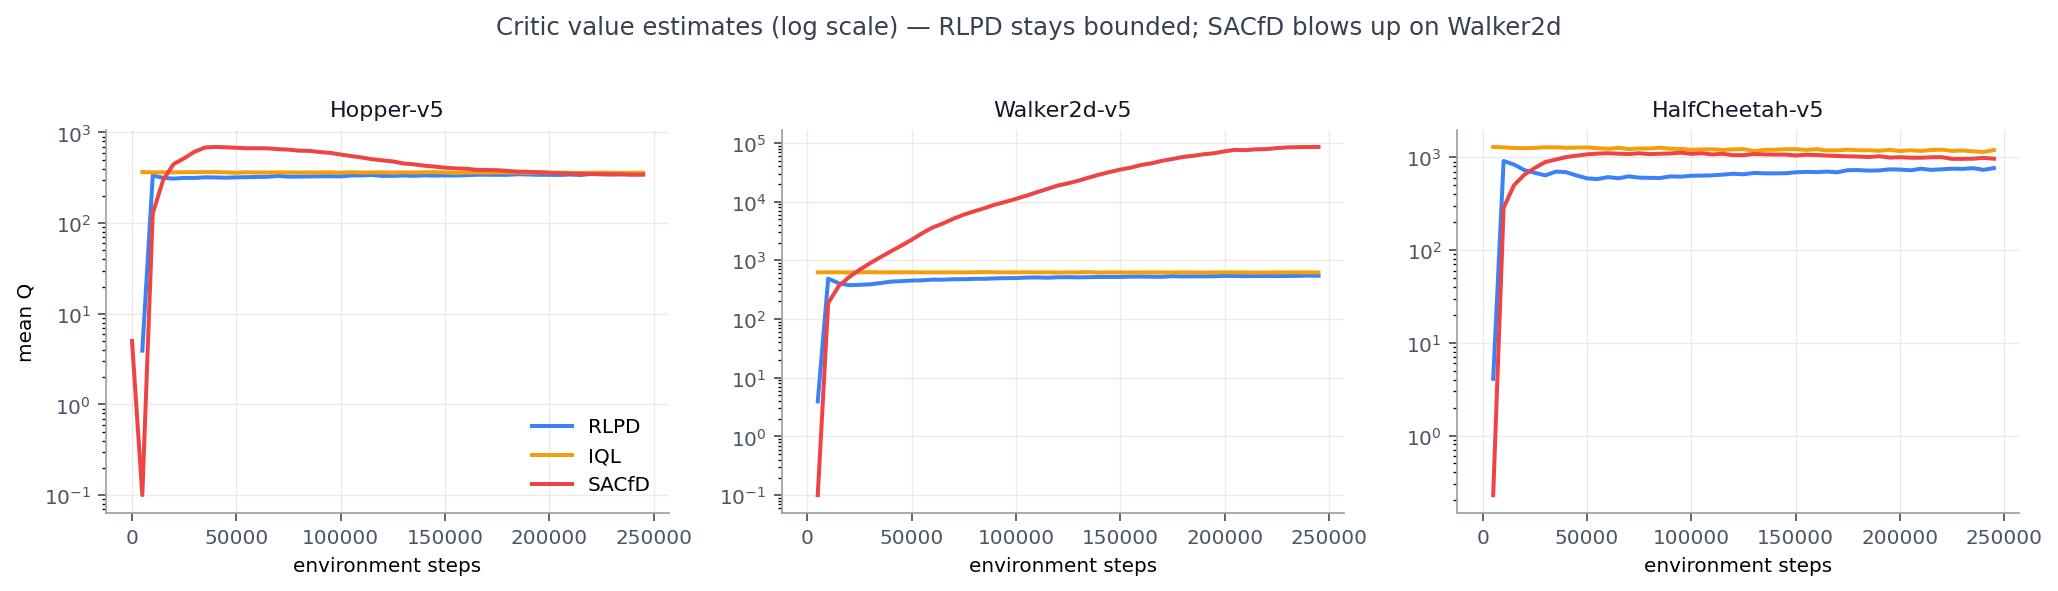
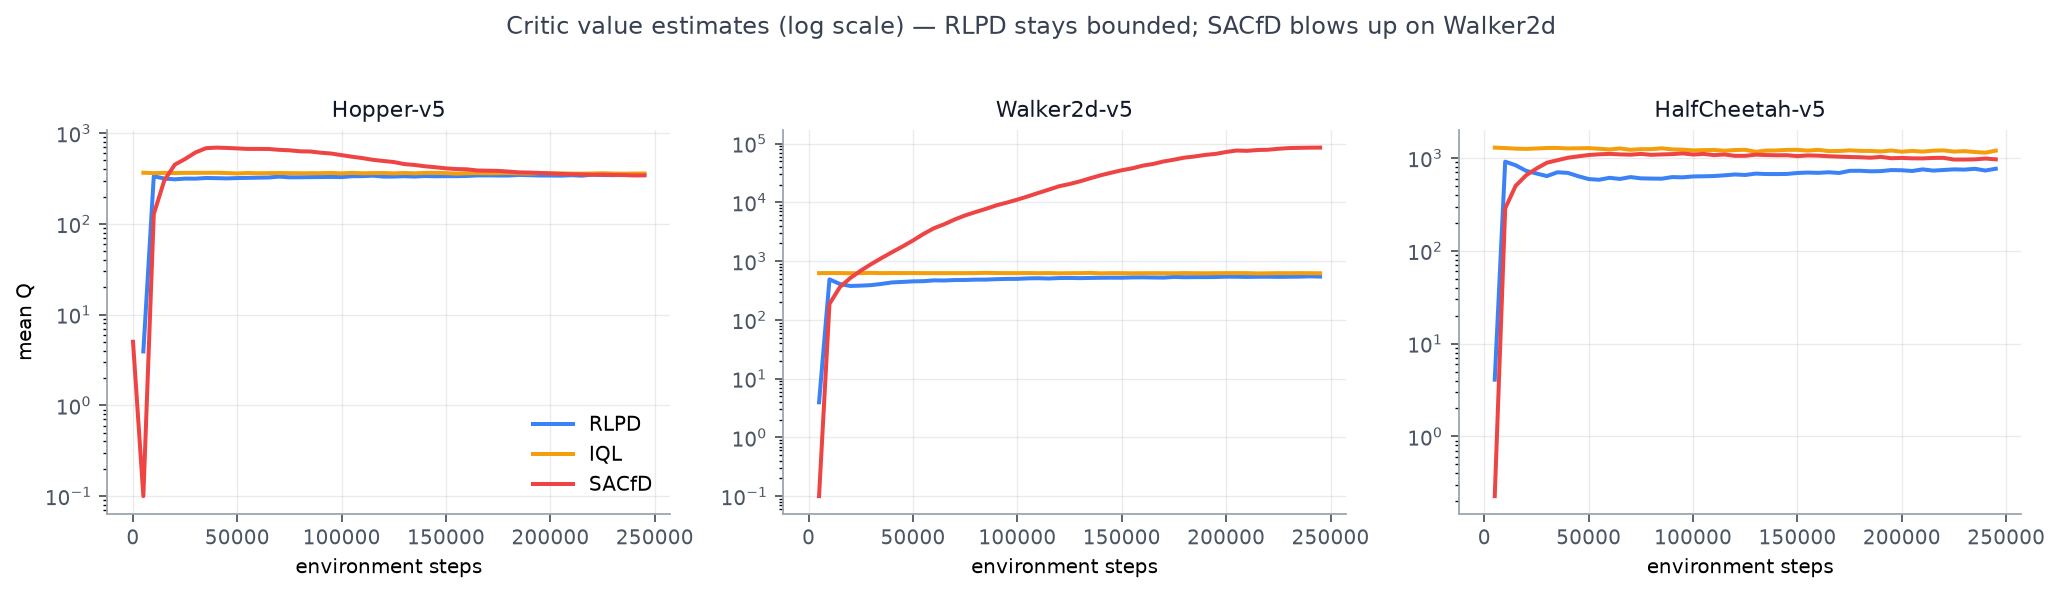
feat(plotting): add quality, Humanoid, and ablation figures

diff --git a/plotting/make_readme_figures.py b/plotting/make_readme_figures.py
@@ -1,13 +1,15 @@
-"""Build the two figures embedded in README.md from results/*.eval.csv.
+"""Build the figures embedded in README.md from results/*.eval.csv.
 
     python -m plotting.make_readme_figures
 
-Writes assets/returns.png (normalized return, RLPD vs baselines) and assets/mean_q.png
-(critic value estimates, log scale). Both are 1x3 panels over the locomotion tasks on the
-medium-quality offline datasets, shading +/- std across seeds.
+Writes to assets/:
+  returns.png    normalized return, RLPD vs baselines, locomotion medium datasets
+  mean_q.png     critic value estimates (log), same runs
+  quality.png    RLPD across simple / medium / expert offline data
+  humanoid.png   RLPD vs baselines on Humanoid (return + critic)
+  ablations.png  RLPD Humanoid ablations, one component off at a time (return + critic)
 
-These used to be produced ad hoc, so the README drifted out of sync with the data whenever
-normalization changed. Regenerate them alongside `python -m plotting.make_curves`.
+All aggregate mean +/- std across seeds. Regenerate whenever normalization or the data changes.
 """
 
 from __future__ import annotations
@@ -19,19 +21,25 @@ import matplotlib
 
 matplotlib.use("Agg")  # headless: write files, never open a window
 import matplotlib.pyplot as plt
+import pandas as pd
 
 from plotting.make_curves import RESULTS_DIR, load_runs
 
 ASSETS_DIR = Path("assets")
 ENVS = ["Hopper", "Walker2d", "HalfCheetah"]
-QUALITY = "medium"
 
-# One colour per method, held constant across both figures.
-METHODS = {
-    "RLPD": "#3b82f6",
-    "IQL": "#f59e0b",
-    "SACfD": "#ef4444",
+METHODS = {"RLPD": "#3b82f6", "IQL": "#f59e0b", "SACfD": "#ef4444"}
+QUALITIES = {"simple": "#c7d2fe", "medium": "#6366f1", "expert": "#312e81"}
+# Humanoid ablations: the reference first, then one component changed each.
+ABLATIONS = {
+    "RLPD": ("RLPD (reference)", "#111827"),
+    "ablation-ratio1": ("online-only (ratio 1)", "#3b82f6"),
+    "ablation-ensemble2": ("ensemble 2", "#10b981"),
+    "ablation-utd1": ("UTD 1", "#f59e0b"),
+    "ablation-ratio0": ("offline-only (ratio 0)", "#8b5cf6"),
+    "ablation-no-layernorm": ("no LayerNorm", "#ef4444"),
 }
+ABLATION_BUDGET = 500_000
 
 
 def _style(ax: plt.Axes) -> None:
@@ -44,84 +52,148 @@ def _style(ax: plt.Axes) -> None:
     ax.tick_params(colors="#4b5563", labelsize=9)
 
 
-def _panels(title: str) -> tuple[plt.Figure, list[plt.Axes]]:
-    fig, axes = plt.subplots(1, len(ENVS), figsize=(13, 3.6), sharex=True)
-    fig.suptitle(title, fontsize=11, color="#374151", y=1.02)
-    return fig, list(axes)
-
-
-def _series(agg, env: str, setting: str):
-    """Mean/std curve for one (env, setting) on the medium datasets, or None if absent."""
-    s = agg[(agg["env"] == env) & (agg["setting"] == setting) & (agg["quality"] == QUALITY)]
-    return s.sort_values("env_step") if not s.empty else None
-
-
-def _aggregate(df, metric: str):
+def _curve(df: pd.DataFrame, metric: str) -> pd.DataFrame:
+    """Mean/std of `metric` over seeds at each env_step for an already-filtered frame."""
     agg = (
         df.dropna(subset=[metric])
-        .groupby(["env", "setting", "quality", "env_step"])[metric]
-        .agg(["mean", "std", "count"])
+        .groupby("env_step")[metric]
+        .agg(["mean", "std"])
         .reset_index()
+        .sort_values("env_step")
     )
     agg["std"] = agg["std"].fillna(0.0)
     return agg
 
 
-def returns_figure(df, outdir: Path) -> Path:
-    agg = _aggregate(df, "return_normalized")
-    fig, axes = _panels(
-        "Normalized return on the medium offline datasets — mean ± std over 3 seeds"
-    )
-    for ax, env in zip(axes, ENVS):
-        ax.axhline(100, color="#6b7280", linestyle="--", linewidth=1)
-        ax.text(0.015, 101, "Minari v5 expert", fontsize=7.5, color="#6b7280",
-                transform=ax.get_yaxis_transform())
-        for setting, colour in METHODS.items():
-            s = _series(agg, env, setting)
-            if s is None:
-                continue
-            ax.plot(s["env_step"], s["mean"], color=colour, linewidth=1.8, label=setting)
-            ax.fill_between(s["env_step"], s["mean"] - s["std"], s["mean"] + s["std"],
-                            color=colour, alpha=0.15, linewidth=0)
-        ax.set_title(f"{env}-v5", fontsize=10, color="#111827")
-        ax.set_xlabel("environment steps", fontsize=9)
-        ax.set_ylim(bottom=0)
-        _style(ax)
-    axes[0].set_ylabel("normalized return", fontsize=9)
-    # lower right: the expert-line label owns the top-left corner
-    axes[0].legend(frameon=False, fontsize=9, loc="lower right")
+def _plot(ax: plt.Axes, df: pd.DataFrame, metric: str, colour: str, label: str) -> None:
+    c = _curve(df, metric)
+    if c.empty:
+        return
+    ax.plot(c["env_step"], c["mean"], color=colour, linewidth=1.8, label=label)
+    ax.fill_between(c["env_step"], c["mean"] - c["std"], c["mean"] + c["std"],
+                    color=colour, alpha=0.15, linewidth=0)
+
+
+def _save(fig: plt.Figure, outdir: Path, name: str) -> Path:
     outdir.mkdir(parents=True, exist_ok=True)
-    path = outdir / "returns.png"
+    path = outdir / name
     fig.tight_layout()
     fig.savefig(path, dpi=160, bbox_inches="tight", facecolor="white")
     plt.close(fig)
     return path
 
 
-def mean_q_figure(df, outdir: Path) -> Path:
-    agg = _aggregate(df, "mean_q")
-    fig, axes = _panels(
-        "Critic value estimates (log scale) — RLPD stays bounded; SACfD blows up on Walker2d"
-    )
+def returns_figure(df: pd.DataFrame, outdir: Path) -> Path:
+    med = df[df["quality"] == "medium"]
+    fig, axes = plt.subplots(1, 3, figsize=(13, 3.6), sharex=True)
+    fig.suptitle("Normalized return on the medium offline datasets — mean ± std over 3 seeds",
+                 fontsize=11, color="#374151", y=1.02)
+    for ax, env in zip(axes, ENVS):
+        ax.axhline(100, color="#6b7280", linestyle="--", linewidth=1)
+        ax.text(0.015, 101, "Minari v5 expert", fontsize=7.5, color="#6b7280",
+                transform=ax.get_yaxis_transform())
+        for setting, colour in METHODS.items():
+            _plot(ax, med[(med["env"] == env) & (med["setting"] == setting)],
+                  "return_normalized", colour, setting)
+        ax.set_title(f"{env}-v5", fontsize=10, color="#111827")
+        ax.set_xlabel("environment steps", fontsize=9)
+        ax.set_ylim(bottom=0)
+        _style(ax)
+    axes[0].set_ylabel("normalized return", fontsize=9)
+    axes[0].legend(frameon=False, fontsize=9, loc="lower right")
+    return _save(fig, outdir, "returns.png")
+
+
+def mean_q_figure(df: pd.DataFrame, outdir: Path) -> Path:
+    med = df[df["quality"] == "medium"]
+    fig, axes = plt.subplots(1, 3, figsize=(13, 3.6), sharex=True)
+    fig.suptitle("Critic value estimates (log scale) — RLPD stays bounded; SACfD blows up on Walker2d",
+                 fontsize=11, color="#374151", y=1.02)
     for ax, env in zip(axes, ENVS):
         for setting, colour in METHODS.items():
-            s = _series(agg, env, setting)
-            if s is None:
-                continue
-            ax.plot(s["env_step"], s["mean"].clip(lower=1e-1), color=colour,
-                    linewidth=1.8, label=setting)
+            c = _curve(med[(med["env"] == env) & (med["setting"] == setting)], "mean_q")
+            if not c.empty:
+                ax.plot(c["env_step"], c["mean"].clip(lower=1e-1), color=colour,
+                        linewidth=1.8, label=setting)
         ax.set_yscale("log")
         ax.set_title(f"{env}-v5", fontsize=10, color="#111827")
         ax.set_xlabel("environment steps", fontsize=9)
         _style(ax)
     axes[0].set_ylabel("mean Q", fontsize=9)
     axes[0].legend(frameon=False, fontsize=9, loc="lower right")
-    outdir.mkdir(parents=True, exist_ok=True)
-    path = outdir / "mean_q.png"
-    fig.tight_layout()
-    fig.savefig(path, dpi=160, bbox_inches="tight", facecolor="white")
-    plt.close(fig)
-    return path
+    return _save(fig, outdir, "mean_q.png")
+
+
+def quality_figure(df: pd.DataFrame, outdir: Path) -> Path:
+    rlpd = df[df["setting"] == "RLPD"]
+    fig, axes = plt.subplots(1, 3, figsize=(13, 3.6), sharex=True)
+    fig.suptitle("RLPD vs. offline-data quality — better prior data → better online policy",
+                 fontsize=11, color="#374151", y=1.02)
+    for ax, env in zip(axes, ENVS):
+        ax.axhline(100, color="#6b7280", linestyle="--", linewidth=1)
+        for quality, colour in QUALITIES.items():
+            _plot(ax, rlpd[(rlpd["env"] == env) & (rlpd["quality"] == quality)],
+                  "return_normalized", colour, quality)
+        ax.set_title(f"{env}-v5", fontsize=10, color="#111827")
+        ax.set_xlabel("environment steps", fontsize=9)
+        ax.set_ylim(bottom=0)
+        _style(ax)
+    axes[0].set_ylabel("normalized return", fontsize=9)
+    axes[0].legend(frameon=False, fontsize=9, loc="lower right", title="offline data")
+    return _save(fig, outdir, "quality.png")
+
+
+def humanoid_figure(df: pd.DataFrame, outdir: Path) -> Path:
+    h = df[(df["env"] == "Humanoid") & (df["quality"] == "medium")]
+    fig, (ax_r, ax_q) = plt.subplots(1, 2, figsize=(11, 3.8))
+    fig.suptitle("Humanoid-v5 (beyond the paper) — RLPD holds; SACfD's critic diverges",
+                 fontsize=11, color="#374151", y=1.02)
+    for setting, colour in METHODS.items():
+        sub = h[h["setting"] == setting]
+        _plot(ax_r, sub, "return_normalized", colour, setting)
+        cq = _curve(sub, "mean_q")
+        if not cq.empty:
+            ax_q.plot(cq["env_step"], cq["mean"].clip(lower=1e-1), color=colour,
+                      linewidth=1.8, label=setting)
+    ax_r.set_title("normalized return", fontsize=10, color="#111827")
+    ax_r.set_ylabel("normalized return", fontsize=9)
+    ax_r.set_ylim(bottom=0)
+    ax_q.set_title("mean Q (log scale)", fontsize=10, color="#111827")
+    ax_q.set_ylabel("mean Q", fontsize=9)
+    ax_q.set_yscale("log")
+    for ax in (ax_r, ax_q):
+        ax.set_xlabel("environment steps", fontsize=9)
+        _style(ax)
+    ax_r.legend(frameon=False, fontsize=9, loc="upper left")
+    return _save(fig, outdir, "humanoid.png")
+
+
+def ablations_figure(df: pd.DataFrame, outdir: Path) -> Path:
+    h = df[(df["env"] == "Humanoid") & (df["quality"] == "medium")]
+    fig, (ax_r, ax_q) = plt.subplots(1, 2, figsize=(11, 3.8))
+    fig.suptitle("Humanoid RLPD ablations (seed 0, 500k) — one component changed at a time",
+                 fontsize=11, color="#374151", y=1.02)
+    for setting, (label, colour) in ABLATIONS.items():
+        if setting == "RLPD":  # matched-seed reference, truncated to the ablation budget
+            sub = h[(h["setting"] == "RLPD") & (h["seed"] == 0) & (h["env_step"] <= ABLATION_BUDGET)]
+        else:
+            sub = h[h["setting"] == setting]
+        _plot(ax_r, sub, "return_normalized", colour, label)
+        cq = _curve(sub, "mean_q")
+        if not cq.empty:
+            ax_q.plot(cq["env_step"], cq["mean"].clip(lower=1e-1), color=colour,
+                      linewidth=1.8, label=label)
+    ax_r.set_title("normalized return", fontsize=10, color="#111827")
+    ax_r.set_ylabel("normalized return", fontsize=9)
+    ax_r.set_ylim(bottom=0)
+    ax_q.set_title("mean Q (log scale) — no-LayerNorm explodes", fontsize=10, color="#111827")
+    ax_q.set_ylabel("mean Q", fontsize=9)
+    ax_q.set_yscale("log")
+    for ax in (ax_r, ax_q):
+        ax.set_xlabel("environment steps", fontsize=9)
+        _style(ax)
+    ax_r.legend(frameon=False, fontsize=8, loc="upper left")
+    return _save(fig, outdir, "ablations.png")
 
 
 def main() -> None:
@@ -135,8 +207,9 @@ def main() -> None:
         print(f"no eval CSVs in {args.results}/ yet — run a training job first.")
         return
 
-    for path in (returns_figure(df, args.assets), mean_q_figure(df, args.assets)):
-        print(f"wrote {path}")
+    figures = (returns_figure, mean_q_figure, quality_figure, humanoid_figure, ablations_figure)
+    for fn in figures:
+        print(f"wrote {fn(df, args.assets)}")
 
 
 if __name__ == "__main__":